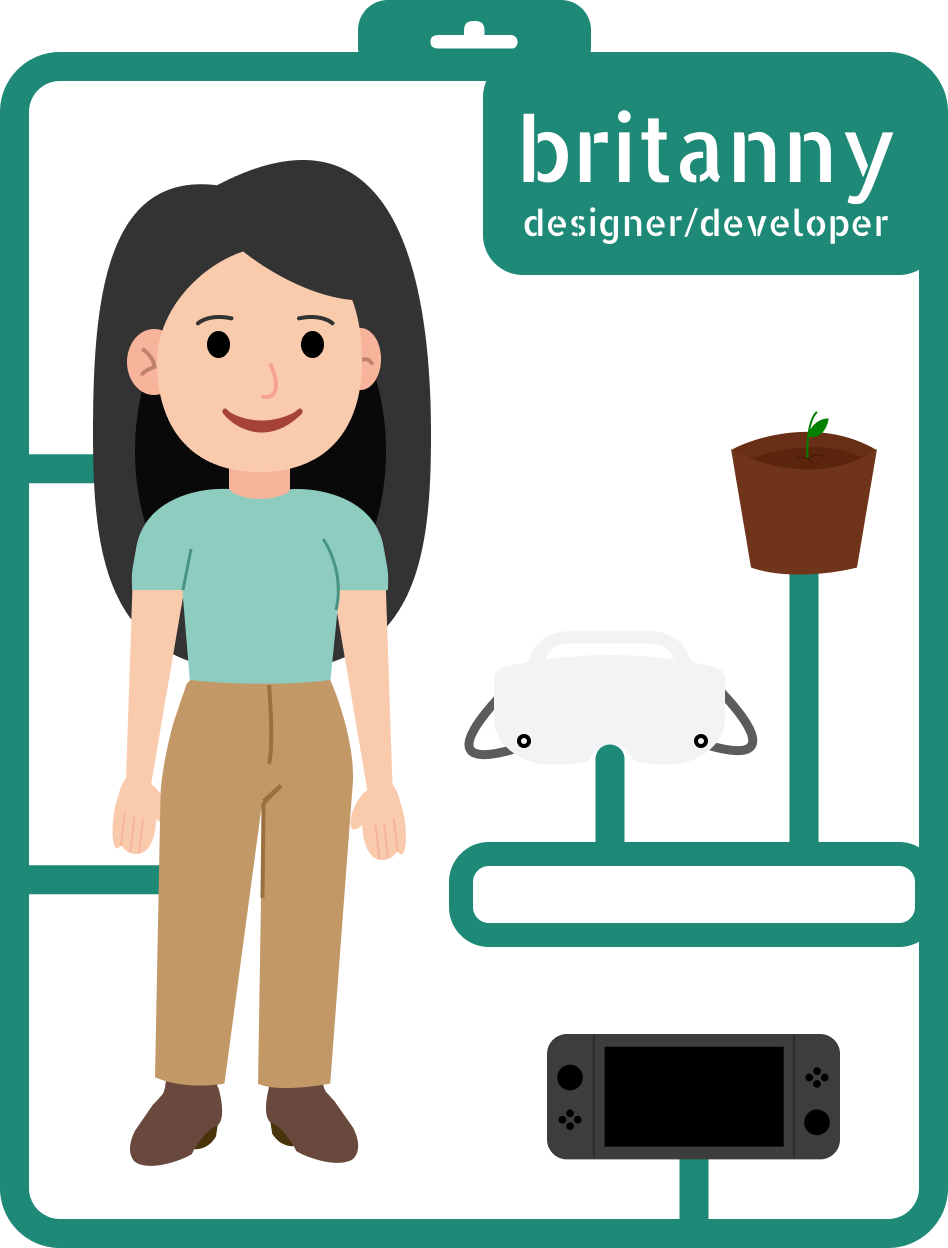
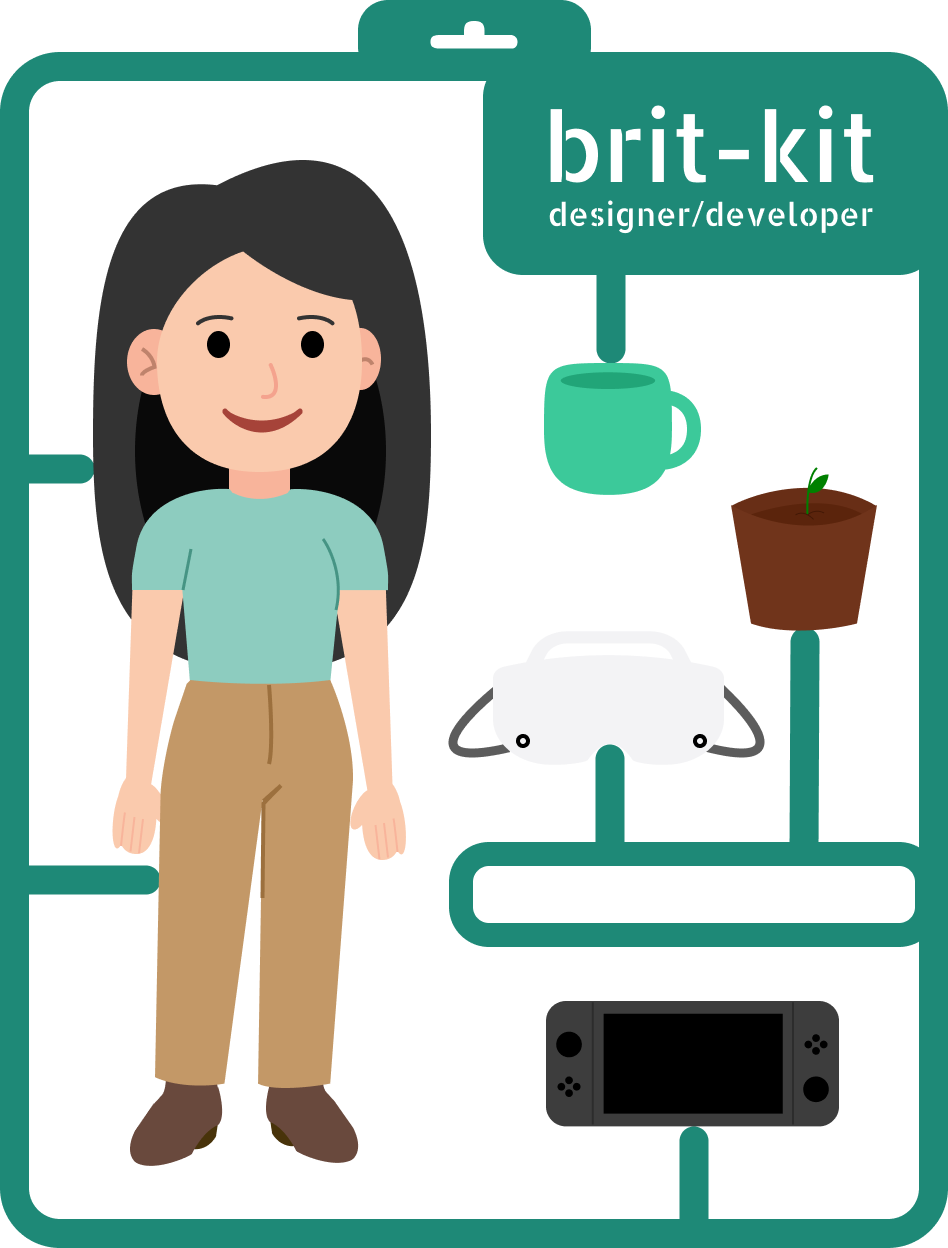
improved illustrations

diff --git a/src/Banner.tsx b/src/Banner.tsx
@@ -4,14 +4,13 @@ const Banner = () => {
   return (
     <div
       id="welcome"
-      className="welcome-bg dark:welcome-bg-dark relative overflow-x-hidden main-container py-16"
-    >
+      className="welcome-bg dark:welcome-bg-dark relative overflow-x-hidden main-container py-16">
       <Bubbles />
       <div className="content md:flex md:flex-row-reverse">
         <div id="girl" className="mb-4">
           <img
             className="main-img animate-float"
-            src="images/purpleGirl.png"
+            src="images/pinkGirl.png"
             alt="A girl with accessories"
             height="600"
             width="400"
@@ -31,8 +30,7 @@ const Banner = () => {
             </p>
             <p
               id="name"
-              className="text-white text-2xl md:text-3xl xl:text-4xl"
-            >
+              className="text-white text-2xl md:text-3xl xl:text-4xl">
               Britanny
             </p>
           </div>
